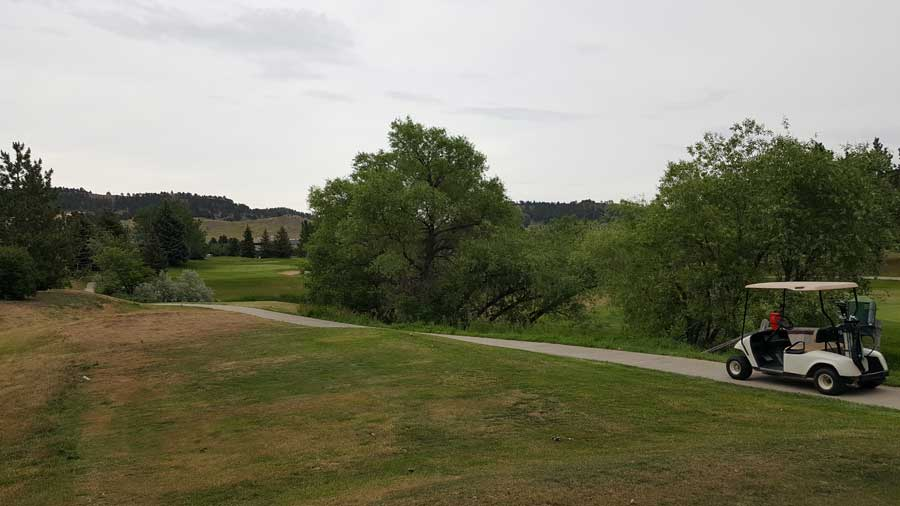
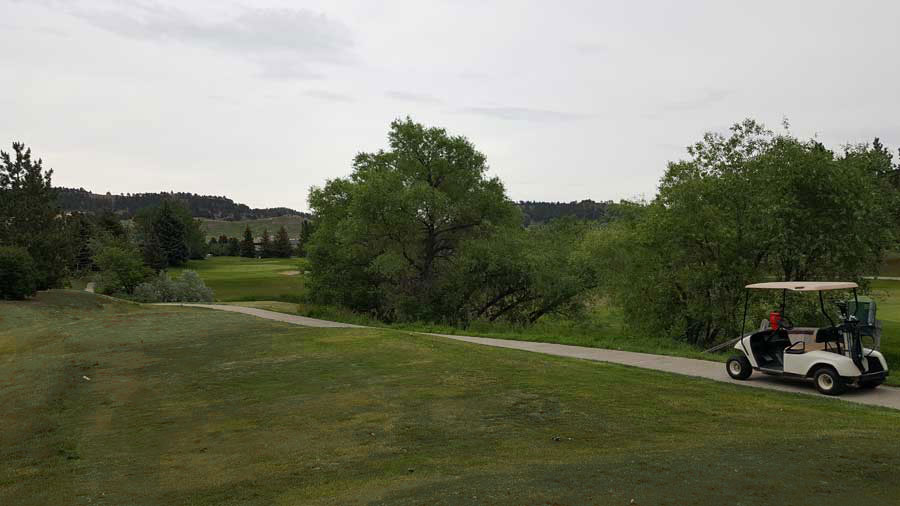
optimized images

diff --git a/teetimes.html b/teetimes.html
@@ -78,8 +78,8 @@
 				<p class="words">
 				<h2>Course Rates</h2>
 				<ul class="words">
-				<li>9 Hole Round: $20.00</li>
-				<li>9 Hole Cart Rental: $6.00</li>
+				<li>9 Hole Round: $21.00</li>
+				<li>9 Hole Cart Rental: $8.00</li>
 				<li>18 Hole Round: $30.00</li>
 				<li>18 Hole Cart Rental: $15.00</li>
 				</ul>

diff --git a/info.html b/info.html
@@ -80,8 +80,8 @@
 			<br><br>
 			<h3>RATES</h3>
 			<ul class="words">
-				<li>9 Hole Round: $20.00</li>
-				<li>9 Hole 1/2 Cart Rental: $6.00</li>
+				<li>9 Hole Round: $21.00</li>
+				<li>9 Hole 1/2 Cart Rental: $8.00</li>
 				<li>18 Hole Round: $30.00</li>
 				<li>18 Hole 1/2 Cart Rental: $15.00</li>
 			</ul>

diff --git a/eventphotos.html b/eventphotos.html
@@ -80,7 +80,7 @@
 			<div class="box-left"></div>
 
 			<div class="mySlides fade click">
-			<img src="images/1h.jpg">
+			<img src="images/eventslideshow/2.jpg">
 			</div>
 			
 			<div class="mySlides fade click">
